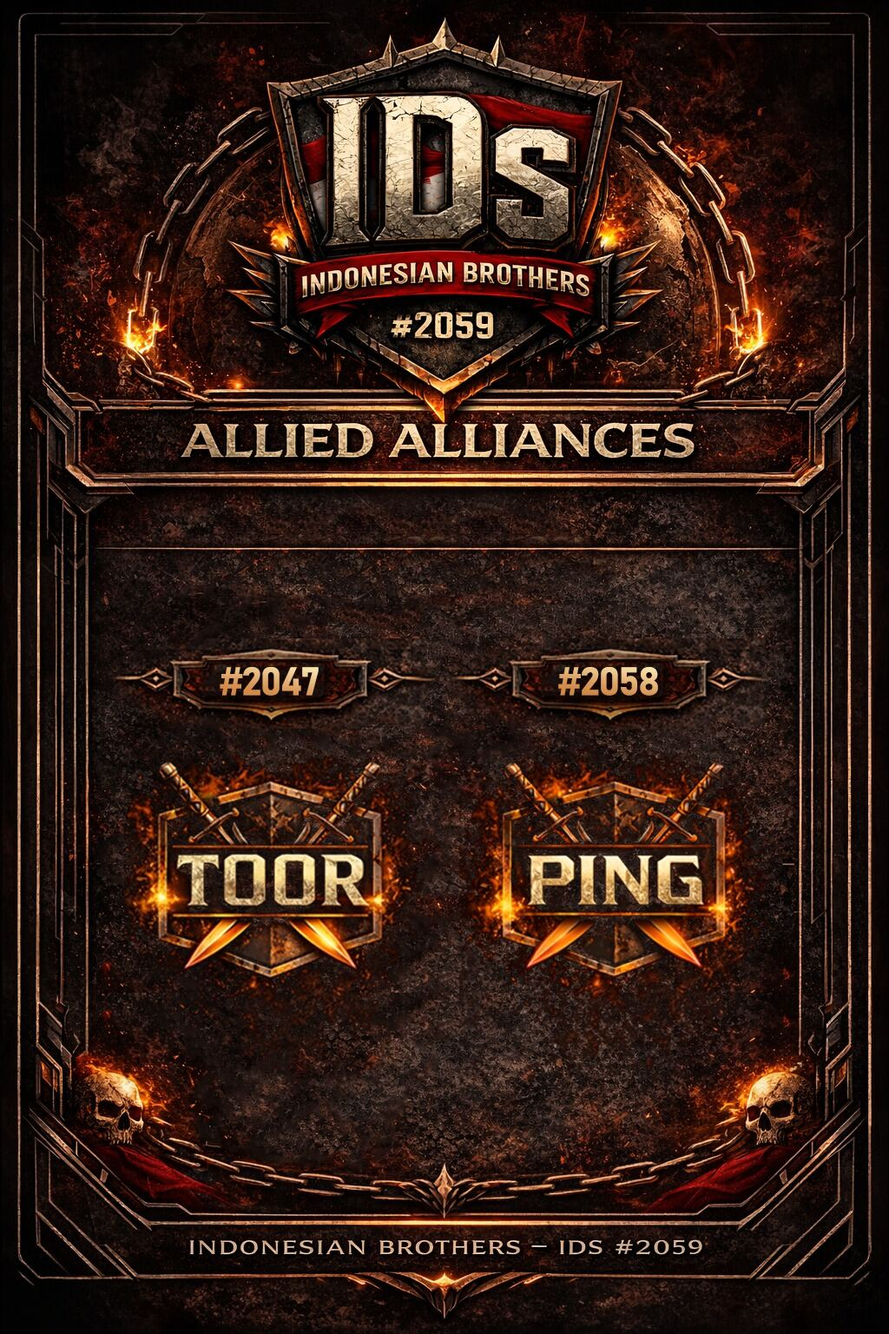
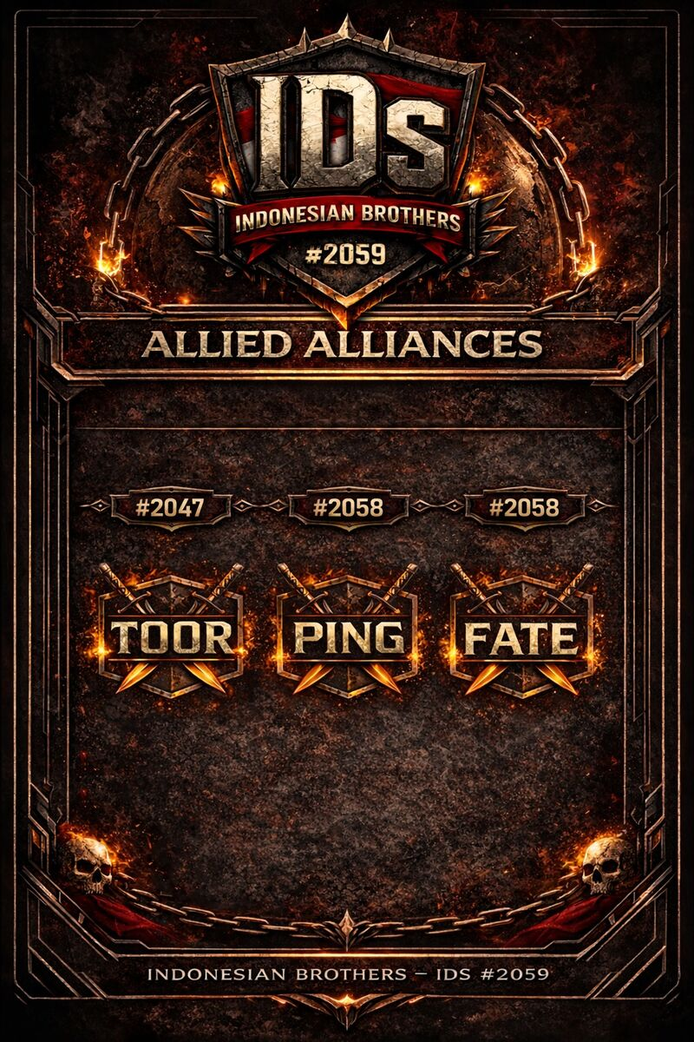
Add FATE alliance, update allies image & translations for all 17 languages

diff --git a/translations.js b/translations.js
@@ -82,7 +82,7 @@ const TRANSLATIONS = {
     "section_title_allies_pre": "OUR",
     "section_title_allies_accent": "ALLIES",
     "section_subtitle_allies": "Bonds forged in fire. Alliances built on trust.",
-    "allies_description": "Our diplomatic bonds extend beyond our own borders. Through mutual respect, shared strategies, and battlefield camaraderie, we have formed unbreakable alliances with <strong>TOOR</strong> from Server #2047 and <strong>PING</strong> from Server #2058. Together, we protect our interests and stand united against any threat that dares challenge our combined strength.",
+    "allies_description": "Our diplomatic bonds extend beyond our own borders. Through mutual respect, shared strategies, and battlefield camaraderie, we have formed unbreakable alliances with <strong>TOOR</strong> from Server #2047, <strong>PING</strong> from Server #2058, and <strong>FATE</strong> from Server #2058. Together, we protect our interests and stand united against any threat that dares challenge our combined strength.",
     "join_title_pre": "JOIN THE",
     "join_title_accent": "BROTHERHOOD",
     "join_desc": "We are always looking for dedicated warriors to strengthen our ranks. Reach out to our recruiters and become part of the IDs family.",
@@ -179,7 +179,7 @@ const TRANSLATIONS = {
     "section_title_allies_pre": "我们的",
     "section_title_allies_accent": "盟友",
     "section_subtitle_allies": "在烈火中锻造的纽带。建立在信任之上的联盟。",
-    "allies_description": "我们的外交纽带超越了我们自己的边界。通过相互尊重、共享策略和战场上的战友情谊，我们与#2047服务器的<strong>TOOR</strong>和#2058服务器的<strong>PING</strong>建立了牢不可破的联盟。我们共同保护我们的利益，团结一致对抗任何敢于挑战我们联合力量的威胁。",
+    "allies_description": "我们的外交纽带超越了自身的边界。通过相互尊重、共享战略和战场情谊，我们与来自2047服务器的<strong>TOOR</strong>、2058服务器的<strong>PING</strong>和2058服务器的<strong>FATE</strong>结成了牢不可破的联盟。我们共同保护利益，团结一致对抗任何敢于挑战我们联合力量的威胁。",
     "join_title_pre": "加入",
     "join_title_accent": "兄弟会",
     "join_desc": "我们一直在寻找有奉献精神的战士来加强我们的队伍。联系我们的招募员，成为IDs大家庭的一员。",
@@ -276,7 +276,7 @@ const TRANSLATIONS = {
     "section_title_allies_pre": "我們的",
     "section_title_allies_accent": "盟友",
     "section_subtitle_allies": "在烈火中鍛造的紐帶。建立在信任之上的聯盟。",
-    "allies_description": "我們的外交紐帶超越了我們自己的邊界。通過相互尊重、共享策略和戰場上的戰友情誼，我們與#2047伺服器的<strong>TOOR</strong>和#2058伺服器的<strong>PING</strong>建立了牢不可破的聯盟。我們共同保護我們的利益，團結一致對抗任何敢於挑戰我們聯合力量的威脅。",
+    "allies_description": "我們的外交紐帶超越了自身的邊界。透過相互尊重、共享戰略和戰場情誼，我們與來自2047伺服器的<strong>TOOR</strong>、2058伺服器的<strong>PING</strong>和2058伺服器的<strong>FATE</strong>結成了牢不可破的聯盟。我們共同保護利益，團結一致對抗任何敢於挑戰我們聯合力量的威脅。",
     "join_title_pre": "加入",
     "join_title_accent": "兄弟會",
     "join_desc": "我們一直在尋找有奉獻精神的戰士來加強我們的隊伍。聯繫我們的招募員，成為IDs大家庭的一員。",
@@ -373,7 +373,7 @@ const TRANSLATIONS = {
     "section_title_allies_pre": "我らの",
     "section_title_allies_accent": "同盟",
     "section_subtitle_allies": "炎で鍛えた絆。信頼で築いた同盟。",
-    "allies_description": "我々の外交的絆は国境を越えます。相互尊重、共有戦略、そして戦場の仲間意識を通じて、サーバー#2047の<strong>TOOR</strong>とサーバー#2058の<strong>PING</strong>と揺るぎない同盟を結びました。共に利益を守り、我々の連合力に挑むあらゆる脅威に対して団結します。",
+    "allies_description": "私たちの外交的絆は自国の境界を超えています。相互尊重、共有戦略、戦場での友情を通じて、サーバー#2047の<strong>TOOR</strong>、サーバー#2058の<strong>PING</strong>、そしてサーバー#2058の<strong>FATE</strong>と揺るぎない同盟を結びました。共に利益を守り、我々の結束した力に挑む脅威に対して団結して立ち向かいます。",
     "join_title_pre": "参加せよ",
     "join_title_accent": "兄弟団",
     "join_desc": "私たちは常に、チームを強化するために献身的な戦士を探しています。リクルーターに連絡して、IDsファミリーの一員になりましょう。",
@@ -470,7 +470,7 @@ const TRANSLATIONS = {
     "section_title_allies_pre": "우리의",
     "section_title_allies_accent": "동맹",
     "section_subtitle_allies": "불 속에서 단련된 유대. 신뢰 위에 세워진 동맹.",
-    "allies_description": "우리의 외교적 유대는 국경을 넘어 확장됩니다. 상호 존중, 공유 전략, 전장의 동지애를 통해 서버 #2047의 <strong>TOOR</strong>와 서버 #2058의 <strong>PING</strong>과 깨지지 않는 동맹을 맺었습니다. 함께 이익을 보호하고 모든 위협에 단결하여 맞서겠습니다.",
+    "allies_description": "우리의 외교적 유대는 국경을 넘어섭니다. 상호 존중, 공유 전략, 전장의 동지애를 통해 서버 #2047의 <strong>TOOR</strong>, 서버 #2058의 <strong>PING</strong>, 그리고 서버 #2058의 <strong>FATE</strong>와 깨뜨릴 수 없는 동맹을 맺었습니다. 함께 이익을 보호하고 연합 세력에 도전하는 위협에 단결하여 맞섭니다.",
     "join_title_pre": "합류하라",
     "join_title_accent": "형제단",
     "join_desc": "우리는 항상 헌신적인 전사를 찾고 있습니다. 모집 담당자에게 연락하여 IDs 가족이 되세요.",
@@ -567,7 +567,7 @@ const TRANSLATIONS = {
     "section_title_allies_pre": "SEKUTU",
     "section_title_allies_accent": "KAMI",
     "section_subtitle_allies": "Ikatan ditempa dalam api. Pakatan dibina atas kepercayaan.",
-    "allies_description": "Ikatan diplomatik kami melampaui sempadan. Melalui rasa hormat, strategi bersama, dan persahabatan medan perang, kami telah membentuk pakatan kukuh dengan <strong>TOOR</strong> dari Server #2047 dan <strong>PING</strong> dari Server #2058. Bersama, kami melindungi kepentingan dan berdiri bersatu menentang sebarang ancaman.",
+    "allies_description": "Ikatan diplomatik kami melangkaui sempadan kami sendiri. Melalui saling hormat, strategi bersama, dan persaudaraan medan perang, kami telah membentuk pakatan yang tidak boleh dipecahkan dengan <strong>TOOR</strong> dari Pelayan #2047, <strong>PING</strong> dari Pelayan #2058, dan <strong>FATE</strong> dari Pelayan #2058. Bersama-sama, kami melindungi kepentingan kami dan berdiri bersatu menentang sebarang ancaman.",
     "join_title_pre": "SERTAI",
     "join_title_accent": "PERSAUDARAAN",
     "join_desc": "Kami sentiasa mencari pahlawan yang berdedikasi untuk mengukuhkan barisan kami. Hubungi perekrut kami dan sertai keluarga IDs.",
@@ -664,7 +664,7 @@ const TRANSLATIONS = {
     "section_title_allies_pre": "พันธมิตร",
     "section_title_allies_accent": "ของเรา",
     "section_subtitle_allies": "สายสัมพันธ์ที่หลอมด้วยไฟ พันธมิตรที่สร้างบนความไว้วางใจ",
-    "allies_description": "พันธะทางการทูตของเราขยายเกินพรมแดน ผ่านความเคารพซึ่งกันและกัน กลยุทธ์ร่วม และมิตรภาพในสนามรบ เราได้สร้างพันธมิตรอันแน่นแฟ้นกับ <strong>TOOR</strong> จากเซิร์ฟเวอร์ #2047 และ <strong>PING</strong> จากเซิร์ฟเวอร์ #2058 เราร่วมกันปกป้องผลประโยชน์และยืนหยัดเป็นหนึ่งเดียว",
+    "allies_description": "สายสัมพันธ์ทางการทูตของเราขยายออกไปเหนือพรมแดนของเรา ผ่านความเคารพซึ่งกันและกัน กลยุทธ์ร่วม และมิตรภาพในสนามรบ เราได้สร้างพันธมิตรที่แข็งแกร่งกับ <strong>TOOR</strong> จากเซิร์ฟเวอร์ #2047, <strong>PING</strong> จากเซิร์ฟเวอร์ #2058 และ <strong>FATE</strong> จากเซิร์ฟเวอร์ #2058 เราร่วมกันปกป้องผลประโยชน์และยืนหยัดเป็นหนึ่งเดียวต่อทุกภัยคุกคาม",
     "join_title_pre": "เข้าร่วม",
     "join_title_accent": "ภราดรภาพ",
     "join_desc": "เรากำลังมองหานักรบที่ทุ่มเทเพื่อเสริมกำลังอยู่เสมอ ติดต่อผู้รับสมัครและเป็นส่วนหนึ่งของครอบครัว IDs",
@@ -761,7 +761,7 @@ const TRANSLATIONS = {
     "section_title_allies_pre": "ĐỒNG MINH",
     "section_title_allies_accent": "CỦA CHÚNG TÔI",
     "section_subtitle_allies": "Mối liên kết được rèn trong lửa. Liên minh được xây trên niềm tin.",
-    "allies_description": "Mối quan hệ ngoại giao của chúng tôi vượt ra ngoài biên giới. Thông qua sự tôn trọng lẫn nhau, chiến lược chung và tình đồng đội trên chiến trường, chúng tôi đã tạo nên liên minh vững chắc với <strong>TOOR</strong> từ Server #2047 và <strong>PING</strong> từ Server #2058. Cùng nhau, chúng tôi bảo vệ lợi ích và đoàn kết chống lại mọi mối đe dọa.",
+    "allies_description": "Mối quan hệ ngoại giao của chúng tôi vượt ra ngoài biên giới. Thông qua sự tôn trọng lẫn nhau, chiến lược chung và tình đồng đội trên chiến trường, chúng tôi đã hình thành liên minh bất khả phá với <strong>TOOR</strong> từ Máy chủ #2047, <strong>PING</strong> từ Máy chủ #2058 và <strong>FATE</strong> từ Máy chủ #2058. Cùng nhau, chúng tôi bảo vệ lợi ích và đoàn kết chống lại mọi mối đe dọa.",
     "join_title_pre": "GIA NHẬP",
     "join_title_accent": "HUYNH ĐỆ",
     "join_desc": "Chúng tôi luôn tìm kiếm những chiến binh tận tâm để tăng cường đội ngũ. Liên hệ tuyển dụng và trở thành thành viên gia đình IDs.",
@@ -858,7 +858,7 @@ const TRANSLATIONS = {
     "section_title_allies_pre": "हमारे",
     "section_title_allies_accent": "सहयोगी",
     "section_subtitle_allies": "आग में गढ़े गए बंधन। विश्वास पर बने गठबंधन।",
-    "allies_description": "हमारे कूटनीतिक बंधन हमारी सीमाओं से परे हैं। पारस्परिक सम्मान, साझा रणनीतियों और युद्धक्षेत्र की मित्रता के माध्यम से, हमने सर्वर #2047 के <strong>TOOR</strong> और सर्वर #2058 के <strong>PING</strong> के साथ अटूट गठबंधन बनाए हैं।",
+    "allies_description": "हमारे कूटनीतिक संबंध हमारी अपनी सीमाओं से परे फैले हुए हैं। आपसी सम्मान, साझा रणनीतियों और युद्धक्षेत्र की मित्रता के माध्यम से, हमने सर्वर #2047 के <strong>TOOR</strong>, सर्वर #2058 के <strong>PING</strong> और सर्वर #2058 के <strong>FATE</strong> के साथ अटूट गठबंधन बनाए हैं। साथ मिलकर, हम अपने हितों की रक्षा करते हैं और हमारी संयुक्त शक्ति को चुनौती देने वाले किसी भी खतरे के खिलाफ एकजुट खड़े हैं।",
     "join_title_pre": "शामिल हों",
     "join_title_accent": "भाईचारा",
     "join_desc": "हम हमेशा समर्पित योद्धाओं की तलाश में हैं। हमारे भर्तीकर्ताओं से संपर्क करें और IDs परिवार का हिस्सा बनें।",
@@ -955,7 +955,7 @@ const TRANSLATIONS = {
     "section_title_allies_pre": "حلفاؤنا",
     "section_title_allies_accent": "الحلفاء",
     "section_subtitle_allies": "روابط صيغت في النار. تحالفات بنيت على الثقة.",
-    "allies_description": "روابطنا الدبلوماسية تمتد إلى ما وراء حدودنا. من خلال الاحترام المتبادل والاستراتيجيات المشتركة والصداقة في ساحة المعركة، شكّلنا تحالفات راسخة مع <strong>TOOR</strong> من الخادم #2047 و<strong>PING</strong> من الخادم #2058. معًا، نحمي مصالحنا ونقف متحدين.",
+    "allies_description": "تمتد روابطنا الدبلوماسية إلى ما وراء حدودنا. من خلال الاحترام المتبادل والاستراتيجيات المشتركة والصداقة في ساحة المعركة، شكّلنا تحالفات لا تُكسر مع <strong>TOOR</strong> من الخادم #2047 و<strong>PING</strong> من الخادم #2058 و<strong>FATE</strong> من الخادم #2058. معاً نحمي مصالحنا ونقف موحدين ضد أي تهديد يجرؤ على تحدي قوتنا المشتركة.",
     "join_title_pre": "انضم إلى",
     "join_title_accent": "الإخوة",
     "join_desc": "نحن نبحث دائمًا عن محاربين مخلصين لتقوية صفوفنا. تواصل مع المجندين لدينا وكن جزءًا من عائلة IDs.",
@@ -1052,7 +1052,7 @@ const TRANSLATIONS = {
     "section_title_allies_pre": "BİZİM",
     "section_title_allies_accent": "MÜTTEFİKLERİMİZ",
     "section_subtitle_allies": "Ateşte dövülmüş bağlar. Güven üzerine kurulmuş ittifaklar.",
-    "allies_description": "Diplomatik bağlarımız sınırlarımızın ötesine uzanır. Karşılıklı saygı, paylaşılan stratejiler ve savaş alanı dostluğuyla Server #2047'den <strong>TOOR</strong> ve Server #2058'den <strong>PING</strong> ile kırılmaz ittifaklar kurduk. Birlikte çıkarlarımızı korur ve her tehdide karşı birleşiriz.",
+    "allies_description": "Diplomatik bağlarımız kendi sınırlarımızın ötesine uzanır. Karşılıklı saygı, ortak stratejiler ve savaş alanı yoldaşlığı ile Sunucu #2047'den <strong>TOOR</strong>, Sunucu #2058'den <strong>PING</strong> ve Sunucu #2058'den <strong>FATE</strong> ile kırılmaz ittifaklar kurduk. Birlikte çıkarlarımızı korur ve birleşik gücümüze meydan okumaya cesaret eden her tehdide karşı birleşik dururuz.",
     "join_title_pre": "KATIL",
     "join_title_accent": "KARDEŞLİĞE",
     "join_desc": "Her zaman saflarımızı güçlendirecek adanmış savaşçılar arıyoruz. İşe alım sorumlularımıza ulaşın ve IDs ailesinin parçası olun.",
@@ -1149,7 +1149,7 @@ const TRANSLATIONS = {
     "section_title_allies_pre": "NOS",
     "section_title_allies_accent": "ALLIÉS",
     "section_subtitle_allies": "Des liens forgés dans le feu. Des alliances bâties sur la confiance.",
-    "allies_description": "Nos liens diplomatiques s'étendent au-delà de nos frontières. Par le respect mutuel, les stratégies partagées et la camaraderie du champ de bataille, nous avons formé des alliances indestructibles avec <strong>TOOR</strong> du Serveur #2047 et <strong>PING</strong> du Serveur #2058. Ensemble, nous protégeons nos intérêts et restons unis contre toute menace.",
+    "allies_description": "Nos liens diplomatiques s'étendent au-delà de nos propres frontières. Par le respect mutuel, les stratégies partagées et la camaraderie sur le champ de bataille, nous avons forgé des alliances indestructibles avec <strong>TOOR</strong> du Serveur #2047, <strong>PING</strong> du Serveur #2058 et <strong>FATE</strong> du Serveur #2058. Ensemble, nous protégeons nos intérêts et nous nous dressons unis contre toute menace.",
     "join_title_pre": "REJOINDRE LA",
     "join_title_accent": "FRATERNITÉ",
     "join_desc": "Nous cherchons toujours des guerriers dévoués pour renforcer nos rangs. Contactez nos recruteurs et rejoignez la famille IDs.",
@@ -1246,7 +1246,7 @@ const TRANSLATIONS = {
     "section_title_allies_pre": "NUESTROS",
     "section_title_allies_accent": "ALIADOS",
     "section_subtitle_allies": "Lazos forjados en el fuego. Alianzas construidas sobre confianza.",
-    "allies_description": "Nuestros lazos diplomáticos se extienden más allá de nuestras fronteras. A través del respeto mutuo, estrategias compartidas y camaradería en el campo de batalla, hemos formado alianzas inquebrantables con <strong>TOOR</strong> del Servidor #2047 y <strong>PING</strong> del Servidor #2058. Juntos, protegemos nuestros intereses y nos unimos contra cualquier amenaza.",
+    "allies_description": "Nuestros lazos diplomáticos se extienden más allá de nuestras fronteras. A través del respeto mutuo, estrategias compartidas y camaradería en el campo de batalla, hemos forjado alianzas inquebrantables con <strong>TOOR</strong> del Servidor #2047, <strong>PING</strong> del Servidor #2058 y <strong>FATE</strong> del Servidor #2058. Juntos, protegemos nuestros intereses y nos mantenemos unidos contra cualquier amenaza.",
     "join_title_pre": "ÚNETE A LA",
     "join_title_accent": "HERMANDAD",
     "join_desc": "Siempre buscamos guerreros dedicados para fortalecer nuestras filas. Contacta a nuestros reclutadores y sé parte de la familia IDs.",
@@ -1343,7 +1343,7 @@ const TRANSLATIONS = {
     "section_title_allies_pre": "UNSERE",
     "section_title_allies_accent": "VERBÜNDETEN",
     "section_subtitle_allies": "Im Feuer geschmiedete Bande. Allianzen auf Vertrauen gebaut.",
-    "allies_description": "Unsere diplomatischen Bande reichen über unsere Grenzen hinaus. Durch gegenseitigen Respekt, gemeinsame Strategien und Kameradschaft auf dem Schlachtfeld haben wir unzerbrechliche Allianzen mit <strong>TOOR</strong> von Server #2047 und <strong>PING</strong> von Server #2058 geschmiedet. Gemeinsam schützen wir unsere Interessen und stehen vereint gegen jede Bedrohung.",
+    "allies_description": "Unsere diplomatischen Bande reichen über unsere eigenen Grenzen hinaus. Durch gegenseitigen Respekt, gemeinsame Strategien und Kameradschaft auf dem Schlachtfeld haben wir unzerbrechliche Allianzen mit <strong>TOOR</strong> von Server #2047, <strong>PING</strong> von Server #2058 und <strong>FATE</strong> von Server #2058 geschmiedet. Gemeinsam schützen wir unsere Interessen und stehen vereint gegen jede Bedrohung.",
     "join_title_pre": "TRITT DER",
     "join_title_accent": "BRUDERSCHAFT BEI",
     "join_desc": "Wir suchen immer nach engagierten Kriegern, um unsere Reihen zu stärken. Kontaktiere unsere Rekrutierer und werde Teil der IDs-Familie.",
@@ -1440,7 +1440,7 @@ const TRANSLATIONS = {
     "section_title_allies_pre": "НАШИ",
     "section_title_allies_accent": "СОЮЗНИКИ",
     "section_subtitle_allies": "Связи, закалённые в огне. Альянсы, построенные на доверии.",
-    "allies_description": "Наши дипломатические связи простираются за пределы наших границ. Через взаимное уважение, общие стратегии и боевое товарищество мы сформировали нерушимые альянсы с <strong>TOOR</strong> с Сервера #2047 и <strong>PING</strong> с Сервера #2058. Вместе мы защищаем наши интересы и стоим едины против любой угрозы.",
+    "allies_description": "Наши дипломатические связи простираются за пределы наших границ. Благодаря взаимному уважению, общим стратегиям и боевому товариществу мы создали нерушимые альянсы с <strong>TOOR</strong> с Сервера #2047, <strong>PING</strong> с Сервера #2058 и <strong>FATE</strong> с Сервера #2058. Вместе мы защищаем наши интересы и стоим едины против любой угрозы.",
     "join_title_pre": "ВСТУПАЙ В",
     "join_title_accent": "БРАТСТВО",
     "join_desc": "Мы всегда ищем преданных воинов для укрепления наших рядов. Свяжитесь с нашими рекрутерами и станьте частью семьи IDs.",
@@ -1537,7 +1537,7 @@ const TRANSLATIONS = {
     "section_title_allies_pre": "NOSSOS",
     "section_title_allies_accent": "ALIADOS",
     "section_subtitle_allies": "Laços forjados no fogo. Alianças construídas na confiança.",
-    "allies_description": "Nossos laços diplomáticos vão além de nossas fronteiras. Através do respeito mútuo, estratégias compartilhadas e camaradagem no campo de batalha, formamos alianças inquebráveis com <strong>TOOR</strong> do Servidor #2047 e <strong>PING</strong> do Servidor #2058. Juntos, protegemos nossos interesses e permanecemos unidos contra qualquer ameaça.",
+    "allies_description": "Nossos laços diplomáticos se estendem além de nossas próprias fronteiras. Através do respeito mútuo, estratégias compartilhadas e camaradagem no campo de batalha, formamos alianças inquebráveis com <strong>TOOR</strong> do Servidor #2047, <strong>PING</strong> do Servidor #2058 e <strong>FATE</strong> do Servidor #2058. Juntos, protegemos nossos interesses e permanecemos unidos contra qualquer ameaça.",
     "join_title_pre": "JUNTE-SE À",
     "join_title_accent": "IRMANDADE",
     "join_desc": "Estamos sempre procurando guerreiros dedicados para fortalecer nossas fileiras. Entre em contato com nossos recrutadores e faça parte da família IDs.",
@@ -1634,7 +1634,7 @@ const TRANSLATIONS = {
     "section_title_allies_pre": "PARA",
     "section_title_allies_accent": "SEKUTU",
     "section_subtitle_allies": "Ikatan yang ditempa dalam api. Aliansi yang dibangun di atas kepercayaan.",
-    "allies_description": "Ikatan diplomatik kami melampaui batas wilayah kami sendiri. Melalui saling menghormati, strategi bersama, dan persahabatan di medan perang, kami telah membentuk aliansi tak terpatahkan dengan <strong>TOOR</strong> dari Server #2047 dan <strong>PING</strong> dari Server #2058. Bersama, kami melindungi kepentingan kami dan berdiri bersatu melawan segala ancaman yang berani menantang kekuatan gabungan kami.",
+    "allies_description": "Ikatan diplomatik kami melampaui batas wilayah sendiri. Melalui rasa hormat, strategi bersama, dan persaudaraan di medan perang, kami telah membentuk aliansi yang tak terpatahkan dengan <strong>TOOR</strong> dari Server #2047, <strong>PING</strong> dari Server #2058, dan <strong>FATE</strong> dari Server #2058. Bersama, kami melindungi kepentingan kami dan berdiri teguh melawan ancaman apapun.",
     "join_title_pre": "BERGABUNG DENGAN",
     "join_title_accent": "PERSAUDARAAN",
     "join_desc": "Kami selalu mencari pejuang berdedikasi untuk memperkuat barisan kami. Hubungi perekrut kami dan jadilah bagian dari keluarga IDs.",

diff --git a/index.html b/index.html
@@ -532,16 +532,24 @@
             </div>
             <div class="ally-banner-glow"></div>
           </div>
+          <div class="ally-banner">
+            <div class="ally-banner-accent"></div>
+            <div class="ally-banner-content">
+              <div class="ally-server notranslate">SERVER #2058</div>
+              <div class="ally-name notranslate">FATE</div>
+            </div>
+            <div class="ally-banner-glow"></div>
+          </div>
           <p class="allies-description" data-i18n="allies_description">
             Our diplomatic bonds extend beyond our own borders. Through mutual respect, shared strategies,
             and battlefield camaraderie, we have formed unbreakable alliances with <strong>TOOR</strong> from
-            Server #2047 and <strong>PING</strong> from Server #2058. Together, we protect our interests and
-            stand united against any threat that dares challenge our combined strength.
+            Server #2047, <strong>PING</strong> from Server #2058, and <strong>FATE</strong> from Server #2058.
+            Together, we protect our interests and stand united against any threat that dares challenge our combined strength.
           </p>
         </div>
         <div class="allies-image reveal-right">
           <div class="allies-frame">
-            <img src="assets/alliance-detail.jpeg" alt="IDs Allied Alliances - TOOR #2047 & PING #2058" loading="lazy">
+            <img src="assets/alliance-detail.jpeg" alt="IDs Allied Alliances - TOOR #2047, PING #2058 & FATE #2058" loading="lazy">
             <div class="allies-frame-border"></div>
           </div>
         </div>
